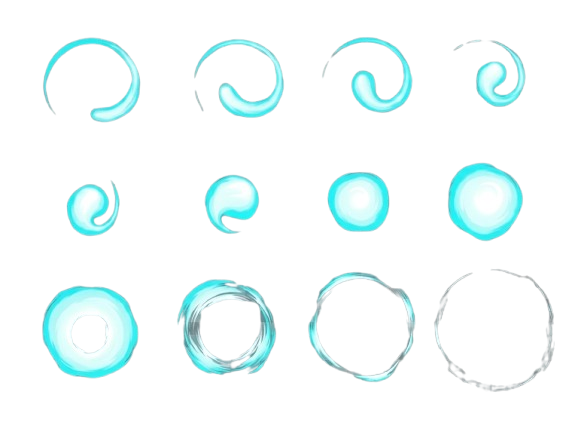
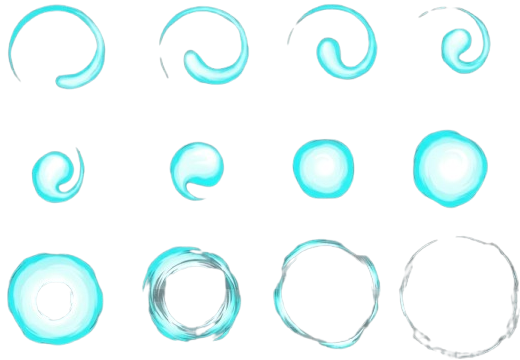
feat(gui/network): add loading screen who waiting to connect

diff --git a/gui/src/Scene/LoadNetwork.hpp b/gui/src/Scene/LoadNetwork.hpp
@@ -19,16 +19,23 @@ private:
   std::unique_ptr<Renderer> _renderer;
   Camera _camera;
 
+  std::unique_ptr<Sprite> _loadingSprite;
   float _animationTime;
+  float _retryTimer;
 
 public:
   LoadNetwork(TextureManager &tm, NetworkManager &net) 
-      : _texManager(tm), _network(net), _animationTime(0.0f) {}
+      : _texManager(tm), _network(net), _animationTime(0.0f), _retryTimer(0.0f) {}
 
   void onEnter() override {
     LOG_INFO("Entering LoadNetwork Scene...");
+
+    Texture &loadingAsset = _texManager.get("gui/assets/loadingNetworkSheat.png");
+
+    _loadingSprite = std::make_unique<Sprite>(loadingAsset);
     _renderer = std::make_unique<Renderer>(WIDTH, HEIGHT);
     _animationTime = 0.0f;
+    _retryTimer = 0.0f;
   }
 
   SceneState update(const std::vector<Zappy::Event> &events,
@@ -37,15 +44,60 @@ public:
                     float deltaTime) override 
   {
     _animationTime += deltaTime;
+    _retryTimer -= deltaTime;
 
-    return SceneState::MENU;
-  }
-
-  void draw(Shader &shader) override {
-    if (_renderer) {
+    if (_retryTimer <= 0.0f) {
+        LOG_INFO("Attempting to connect to server...");
+        
+        if (_network.get().connectToServer("127.0.0.1", 4242) == true) {
+            LOG_INFO("Network success");
+            return SceneState::MENU;
+        } else {
+            LOG_INFO("Network failed, retrying in 2 seconds...");
+            _retryTimer = 2.0f;
+        }
     }
+    
+    return SceneState::NONE;
   }
 
+void draw(Shader &shader) override {
+    _renderer->drawSkybox(_camera);
+    glDisable(GL_DEPTH_TEST);
+    glEnable(GL_BLEND);
+    glBlendFunc(GL_SRC_ALPHA, GL_ONE_MINUS_SRC_ALPHA);
+
+    Zappy::Math::mat4 orthoProj = Zappy::Math::ortho(0.0f, WIDTH, HEIGHT, 0.0f, -1.0f, 1.0f);
+    Zappy::Math::mat4 identityView;
+
+    shader.bind();
+
+    int cols = 4;
+    int rows = 3;
+    int totalFrames = 12;
+    float fps = 15.0f;
+
+    int currentFrame = static_cast<int>(_animationTime * fps) % totalFrames;
+
+    int col = currentFrame % cols;
+    int row = (rows - 1) - (currentFrame / cols); 
+
+    float scaleX = 1.0f / cols;
+    float scaleY = 1.0f / rows;
+
+    _loadingSprite->_uvScale.x = scaleX;
+    _loadingSprite->_uvScale.y = scaleY;
+    _loadingSprite->_uvOffset.x = col * scaleX;
+    _loadingSprite->_uvOffset.y = row * scaleY;
+
+    _loadingSprite->position = Zappy::Math::vec3(WIDTH / 2.0f, HEIGHT / 2.0f, 0.0f);
+    _loadingSprite->scale = Zappy::Math::vec3(130.0f, 120.0f, 1.0f); 
+
+    _loadingSprite->draw(shader, identityView, orthoProj);
+
+    glDisable(GL_BLEND);
+    glEnable(GL_DEPTH_TEST);
+  }
   void onExit() override {
     LOG_INFO("Exiting LoadNetwork Scene...");
     _renderer.reset();

diff --git a/gui/src/Sprite/Sprite.cpp b/gui/src/Sprite/Sprite.cpp
@@ -5,6 +5,7 @@
 #include "Utils/OpenGL.hpp"
 
 namespace Zappy {
+
 Sprite::Sprite(Texture &texture)
     : _VAO(0), _VBO(0), _EBO(0), _texture(texture), position(0.0f, 0.0f, 0.0f),
       scale(1.0f, 1.0f, 1.0f) {
@@ -35,6 +36,40 @@ Sprite::Sprite(Texture &texture)
   glBindVertexArray(0);
 }
 
+
+Sprite::Sprite(Texture &texture, Zappy::Math::vec2 uvScale, Zappy::Math::vec2 uvOffset)
+    : _VAO(0), _VBO(0), _EBO(0), _texture(texture), position(0.0f, 0.0f, 0.0f),
+      scale(1.0f, 1.0f, 1.0f), isBillboard(false), 
+      _uvOffset(uvOffset), _uvScale(uvScale) {
+  float vertices[] = {0.5f,  1.0f, 1.0f, 1.0f, 0.5f,  0.0f, 1.0f, 0.0f,
+                      -0.5f, 0.0f, 0.0f, 0.0f, -0.5f, 1.0f, 0.0f, 1.0f};
+  unsigned int indices[] = {0, 1, 3, 1, 2, 3};
+
+  glGenVertexArrays(1, &_VAO);
+  glGenBuffers(1, &_VBO);
+  glGenBuffers(1, &_EBO);
+
+  glBindVertexArray(_VAO);
+
+  glBindBuffer(GL_ARRAY_BUFFER, _VBO);
+  glBufferData(GL_ARRAY_BUFFER, sizeof(vertices), vertices, GL_STATIC_DRAW);
+
+  glBindBuffer(GL_ELEMENT_ARRAY_BUFFER, _EBO);
+  glBufferData(GL_ELEMENT_ARRAY_BUFFER, sizeof(indices), indices,
+               GL_STATIC_DRAW);
+
+  glVertexAttribPointer(0, 2, GL_FLOAT, GL_FALSE, 4 * sizeof(float), (void *)0);
+  glEnableVertexAttribArray(0);
+
+  glVertexAttribPointer(1, 2, GL_FLOAT, GL_FALSE, 4 * sizeof(float),
+                        (void *)(2 * sizeof(float)));
+  glEnableVertexAttribArray(1);
+
+  glBindVertexArray(0);
+}
+
+
+
 Sprite::~Sprite() {
   if (_VAO != 0)
     glDeleteVertexArrays(1, &_VAO);
@@ -55,10 +90,10 @@ void Sprite::draw(Shader &shader, const Zappy::Math::mat4 &view,
   float texHeight = static_cast<float>(_texture.get().getHeight());
   float ratio = (texHeight > 0.0f) ? (texWidth / texHeight) : 1.0f;
 
-  shader.setFloat("u_uvScaleX", 1.0f);
-  shader.setFloat("u_uvScaleY", 1.0f);
-  shader.setFloat("u_uvOffsetX", 0.0f);
-  shader.setFloat("u_uvOffsetY", 0.0f);
+  shader.setFloat("u_uvScaleX", _uvScale.x);
+  shader.setFloat("u_uvScaleY", _uvScale.y);
+  shader.setFloat("u_uvOffsetX", _uvOffset.x);
+  shader.setFloat("u_uvOffsetY", _uvOffset.y);
 
   if (isBillboard) {
     Zappy::Math::mat4 modelView = view * model;

diff --git a/gui/src/Render/Render.hpp b/gui/src/Render/Render.hpp
@@ -7,8 +7,6 @@
 #include <memory>
 #include <vector>
 
-
-
 namespace Zappy {
 class Renderer {
 private:
@@ -132,8 +130,31 @@ public:
     glDeleteBuffers(1, &quadVBO);
   }
 
+  void drawSkybox(const Camera &camera) {
+    glEnable(GL_DEPTH_TEST);
+    glDepthFunc(GL_LEQUAL);  
+    _skyboxShader->bind();
+
+    Zappy::Math::mat4 projection = Zappy::Math::perspective(
+        Zappy::Math::radians(45.0f),
+        static_cast<float>(_width) / static_cast<float>(_height), 0.1f,
+        1000.0f);
+
+    Zappy::Math::mat4 skyboxView = camera.getViewMatrix();
+    skyboxView.m[12] = 0.0f;
+    skyboxView.m[13] = 0.0f;
+    skyboxView.m[14] = 0.0f;
+
+    _skyboxShader->setMat4("view", skyboxView);
+    _skyboxShader->setMat4("projection", projection);
+    _skybox->draw();
+    glDepthFunc(GL_LESS);
+  }
   void render(const Camera &camera, InstancedGrid &floor,
               const std::vector<std::unique_ptr<Sprite>> &players) {
+    glActiveTexture(GL_TEXTURE0);
+    glBindTexture(GL_TEXTURE_2D, 0);
+
     glEnable(GL_DEPTH_TEST);
 
     Zappy::Math::mat4 lightProjection =
@@ -157,8 +178,15 @@ public:
 
     _defaultShader->bind();
     _defaultShader->setMat4("lightSpaceMatrix", lightSpaceMatrix);
+    _defaultShader->setInt("ourTexture", 0);
+
+    glEnable(GL_POLYGON_OFFSET_FILL);
+    glPolygonOffset(1.0f, 1.0f);
+
     for (auto &p : players)
       p->draw(*_defaultShader, lightView, lightProjection);
+
+    glDisable(GL_POLYGON_OFFSET_FILL);
 
     glBindFramebuffer(GL_FRAMEBUFFER, sceneFBO);
     glViewport(0, 0, _width, _height);
@@ -186,18 +214,7 @@ public:
     for (auto &p : players)
       p->draw(*_defaultShader, view, projection);
 
-    glDepthFunc(GL_LEQUAL);  
-    _skyboxShader->bind();
-
-    Zappy::Math::mat4 skyboxView = view;
-    skyboxView.m[12] = 0.0f;
-    skyboxView.m[13] = 0.0f;
-    skyboxView.m[14] = 0.0f;
-
-    _skyboxShader->setMat4("view", skyboxView);
-    _skyboxShader->setMat4("projection", projection);
-    _skybox->draw();
-    glDepthFunc(GL_LESS);
+    drawSkybox(camera);
 
     glBindFramebuffer(GL_FRAMEBUFFER, 0);
     glClear(GL_COLOR_BUFFER_BIT);

diff --git a/gui/src/Sprite/Sprite.hpp b/gui/src/Sprite/Sprite.hpp
@@ -16,13 +16,18 @@ private:
 
   std::reference_wrapper<Texture> _texture;
 
-public:
+  
+  public:
   Zappy::Math::vec3 rotation;
   Zappy::Math::vec3 position;
   Zappy::Math::vec3 scale;
   bool isBillboard;
+  
+  Zappy::Math::vec2 _uvOffset = Zappy::Math::vec2(0.0f, 0.0f);
+  Zappy::Math::vec2 _uvScale = Zappy::Math::vec2(1.0f, 1.0f);
 
   Sprite(Texture &texture);
+  Sprite(Texture &texture, Zappy::Math::vec2 uvScale, Zappy::Math::vec2 uvOffset);
   ~Sprite();
 
   void setTexture(Texture &newTexture);
